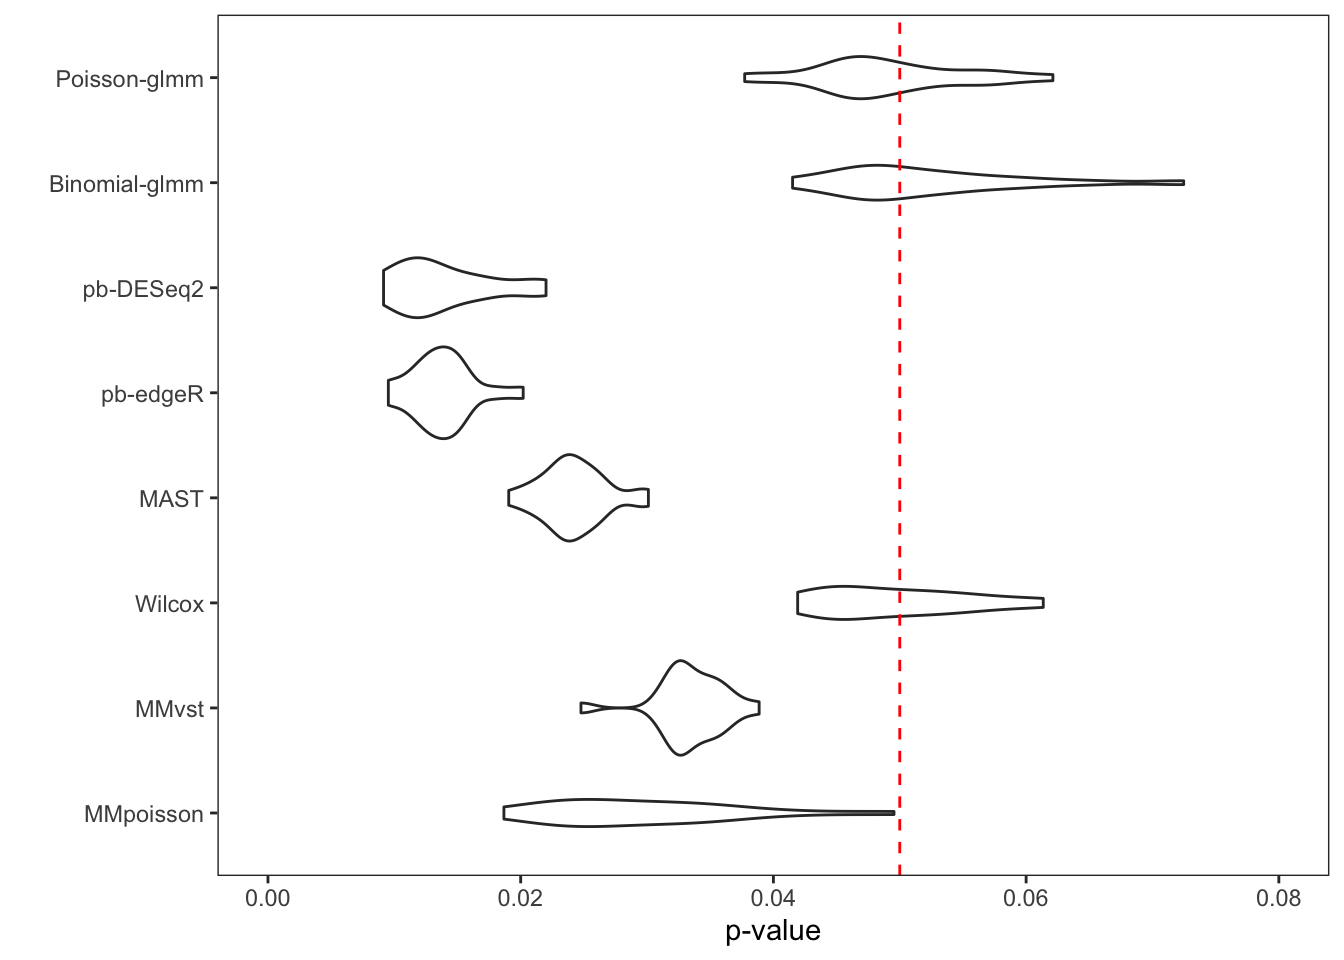
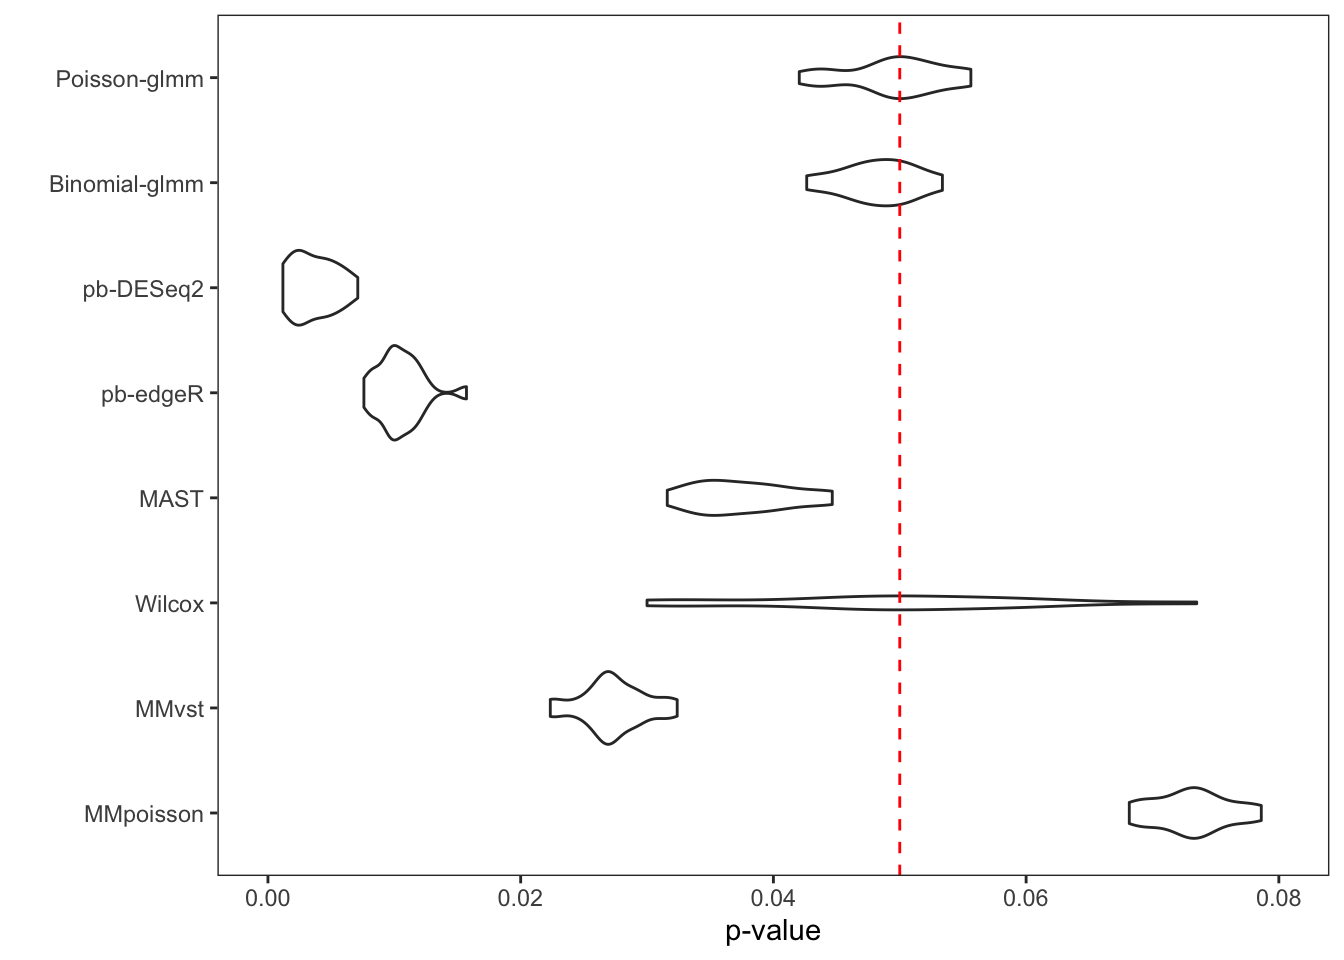
Build site.

diff --git a/docs/FD_analysis.html b/docs/FD_analysis.html
@@ -12,7 +12,7 @@
 <meta name="author" content="Chih-Hsuan Wu" />
 
 
-<title>P-values and False discoveries under null settings</title>
+<title>P-values and false discovery rates assessed under the null setting using permutation analysis</title>
 
 <script src="site_libs/header-attrs-2.23/header-attrs.js"></script>
 <script src="site_libs/jquery-3.6.0/jquery-3.6.0.min.js"></script>
@@ -358,8 +358,8 @@ div.tocify {
 
 
 
-<h1 class="title toc-ignore">P-values and False discoveries under null
-settings</h1>
+<h1 class="title toc-ignore">P-values and false discovery rates assessed
+under the null setting using permutation analysis</h1>
 <h4 class="author">Chih-Hsuan Wu</h4>
 
 </div>
@@ -389,7 +389,7 @@ class="glyphicon glyphicon-ok text-success" aria-hidden="true"></span>
 <div class="tab-content">
 <div id="summary" class="tab-pane fade in active">
 <p>
-<strong>Last updated:</strong> 2023-12-03
+<strong>Last updated:</strong> 2023-12-08
 </p>
 <p>
 <strong>Checks:</strong> <span
@@ -520,15 +520,15 @@ project makes it easier to run your code on other machines.</p>
 <div class="panel panel-default">
 <div class="panel-heading">
 <p class="panel-title">
-<a data-toggle="collapse" data-parent="#workflowr-checks" href="#strongRepositoryversionstrongahrefhttpsgithubcomchwDEanalysistreef3b8c1a3d1bf55b5c12f8083ae18e9de542ae8b9targetblankf3b8c1aa">
+<a data-toggle="collapse" data-parent="#workflowr-checks" href="#strongRepositoryversionstrongahrefhttpsgithubcomchwDEanalysistree02b86805f854d7604f908e3e94f3ecd4315aa5ebtargetblank02b8680a">
 <span class="glyphicon glyphicon-ok text-success"
 aria-hidden="true"></span> <strong>Repository version:</strong>
-<a href="https://github.com/c-hw/DEanalysis/tree/f3b8c1a3d1bf55b5c12f8083ae18e9de542ae8b9" target="_blank">f3b8c1a</a>
+<a href="https://github.com/c-hw/DEanalysis/tree/02b86805f854d7604f908e3e94f3ecd4315aa5eb" target="_blank">02b8680</a>
 </a>
 </p>
 </div>
 <div
[2 lines of base64/hex data omitted]
 class="panel-collapse collapse">
 <div class="panel-body">
 <p>
@@ -538,7 +538,7 @@ reproducibility.
 </p>
 <p>
 The results in this page were generated with repository version
-<a href="https://github.com/c-hw/DEanalysis/tree/f3b8c1a3d1bf55b5c12f8083ae18e9de542ae8b9" target="_blank">f3b8c1a</a>.
+<a href="https://github.com/c-hw/DEanalysis/tree/02b86805f854d7604f908e3e94f3ecd4315aa5eb" target="_blank">02b8680</a>.
 See the <em>Past versions</em> tab to see a history of the changes made
 to the R Markdown and HTML files.
 </p>
@@ -555,7 +555,9 @@ were generated:
 Untracked files:
     Untracked:  .DS_Store
     Untracked:  .Rhistory
+    Untracked:  analysis/analysis on fallopian tubes.Rmd
     Untracked:  data/.Rhistory
+    Untracked:  data/10X_DEresult_update.RData
     Untracked:  data/10X_Kang_DEresult.RData
     Untracked:  data/10X_inputdata.RData
     Untracked:  data/10X_inputdata_DEresult.RData
@@ -567,9 +569,14 @@ Untracked files:
     Untracked:  data/Bcellsce.rds
     Untracked:  data/data2sce.RData
     Untracked:  data/permutation.RData
+    Untracked:  data/permutation13.RData
+    Untracked:  data/permutation2.RData
     Untracked:  data/vstcounts.Rdata
+    Untracked:  figure/
 
 Unstaged changes:
+    Modified:   analysis/CD14+ Monocytes.Rmd
+    Modified:   analysis/analysis on Kang.Rmd
     Modified:   code/DE_methods.R
     Modified:   code/functions_in_rmd.R
 
@@ -622,6 +629,40 @@ Message
 Rmd
 </td>
 <td>
+<a href="https://github.com/c-hw/DEanalysis/blob/02b86805f854d7604f908e3e94f3ecd4315aa5eb/analysis/FD_analysis.Rmd" target="_blank">02b8680</a>
+</td>
+<td>
+C-HW
+</td>
+<td>
+2023-12-08
+</td>
+<td>
+wflow_publish("analysis/FD_analysis.Rmd")
+</td>
+</tr>
+<tr>
+<td>
+html
+</td>
+<td>
+<a href="https://rawcdn.githack.com/c-hw/DEanalysis/a8051abbcbd33c7ca5bafcaff83968e6f33d989a/docs/FD_analysis.html" target="_blank">a8051ab</a>
+</td>
+<td>
+C-HW
+</td>
+<td>
+2023-12-03
+</td>
+<td>
+Build site.
+</td>
+</tr>
+<tr>
+<td>
+Rmd
+</td>
+<td>
 <a href="https://github.com/c-hw/DEanalysis/blob/f3b8c1a3d1bf55b5c12f8083ae18e9de542ae8b9/analysis/FD_analysis.Rmd" target="_blank">f3b8c1a</a>
 </td>
 <td>
@@ -659,23 +700,31 @@ update index, FD permuation, plots axes
 </div>
 </div>
 <p>To examine the p-value calibration in real data, we did a permutation
-on group-of-interest within a null dataset. The cells in the controlled
-group of B cells were randomly assigned to controlled or stimulated
-group. We then computed p-values of each gene with different methods.
-The gene set was restricted to the input genes of Poisson-glmm, and the
-threshold of Wilcox method was relaxed to prevent filtering out genes.
-The procedure was repeated 20 times. Each time the proportion of p-value
-smaller than 0.05 was computed, so as the false discovery DEGs.</p>
-<p>From the violin plot below, our glmm methods and Wilcox method are
-well-calibrated. However, pseudo-bulk methods, MAST and mixed models
-from Muscat are too conservative. Their overall proportion is way less
-than 0.05. The histograms of all p-values in these 20 runs are flat for
-our glmm methods and Wilcox method, which satisfy the null setting.
-However, the p-values of the other methods are overestimated, resulting
-conservative results. With either current criteria or our new criteria
-to determine DEGs, every method detects at most one false discovery each
-run.
-<img src="figure/FD_analysis.Rmd/unnamed-chunk-5-1.png" width="672" style="display: block; margin: auto;" /></p>
+on group-of-interest within a null dataset. The cells in the null
+dataset were randomly assigned to controlled or stimulated group. We
+then computed p-values of each gene with different methods. The gene set
+was restricted to the input genes of Poisson-glmm, and the threshold of
+Wilcox method was relaxed to prevent filtering out genes. The procedure
+was repeated 20 times. Each time the proportion of p-value smaller than
+0.05 was computed, so as the false discovery DEGs.</p>
+<p>From the violin plot shown below, LEMUR glmm methods and Wilcox
+method are consistently well-calibrated among different choices of null
+datasets. However, pseudo-bulk methods, and mixed models from Muscat are
+too conservative. Their overall proportion is way less than 0.05. The
+performance of MAST is not consistent among three datasets, which is
+conservative in B cells but not in case study 1. The histograms of all
+p-values in these 20 runs are flat for LEMUR glmm methods and Wilcox
+method, which satisfy the null setting. However, the p-values of the
+other methods are overestimated, resulting conservative results. Note
+that even though Wilcox performs well in the permutation analysis, it is
+not powerful to detect real DEGs. With either current criteria or our
+new criteria to determine DEGs, every method detects at most one false
+discovery each run.</p>
+<div id="different-choices-of-null-sets" class="section level1">
+<h1>Different choices of null sets</h1>
+<div id="cluster-2-in-case-study-1" class="section level2">
+<h2>Cluster 2 in case study 1</h2>
+<p><img src="figure/FD_analysis.Rmd/unnamed-chunk-5-1.png" width="672" style="display: block; margin: auto;" /></p>
 <p>
 <button type="button" class="btn btn-default btn-xs btn-workflowr btn-workflowr-fig" data-toggle="collapse" data-target="#fig-unnamed-chunk-5-1">
 Past versions of unnamed-chunk-5-1.png
@@ -713,6 +762,10 @@ C-HW
 </table>
 </div>
 </div>
+<p><img src="figure/FD_analysis.Rmd/unnamed-chunk-6-1.png" width="672" style="display: block; margin: auto;" /></p>
+</div>
+<div id="cluster-13-in-case-study-1" class="section level2">
+<h2>Cluster 13 in case study 1</h2>
 <p><img src="figure/FD_analysis.Rmd/unnamed-chunk-7-1.png" width="672" style="display: block; margin: auto;" /></p>
 <p>
 <button type="button" class="btn btn-default btn-xs btn-workflowr btn-workflowr-fig" data-toggle="collapse" data-target="#fig-unnamed-chunk-7-1">
@@ -751,6 +804,13 @@ C-HW
 </table>
 </div>
 </div>
+<p><img src="figure/FD_analysis.Rmd/unnamed-chunk-8-1.png" width="672" style="display: block; margin: auto;" /></p>
+</div>
+<div id="the-control-group-of-b-cells-in-case-study-2"
+class="section level2">
+<h2>The control group of B cells in case study 2</h2>
+<p><img src="figure/FD_analysis.Rmd/unnamed-chunk-9-1.png" width="672" style="display: block; margin: auto;" /></p>
+<p><img src="figure/FD_analysis.Rmd/unnamed-chunk-11-1.png" width="672" style="display: block; margin: auto;" /></p>
 <br>
 <p>
 <button type="button" class="btn btn-default btn-workflowr btn-workflowr-sessioninfo" data-toggle="collapse" data-target="#workflowr-sessioninfo" style="display: block;">
@@ -884,6 +944,8 @@ loaded via a namespace (and not attached):
 [187] iterators_1.0.14          variancePartition_1.28.9 
 [189] reshape2_1.4.4            gtable_0.3.3             
 [191] rbibutils_2.2.13         </code></pre>
+</div>
+</div>
 </div>
 
 
